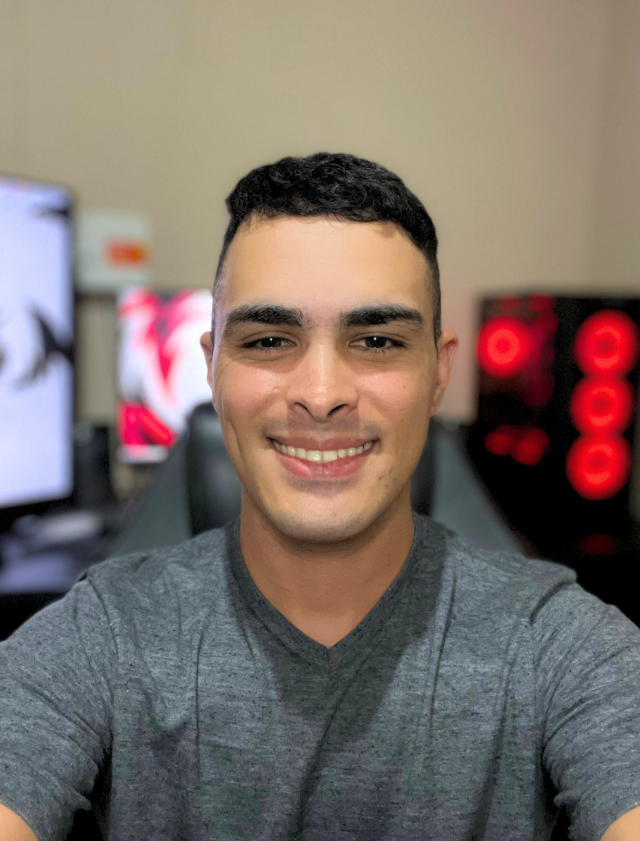
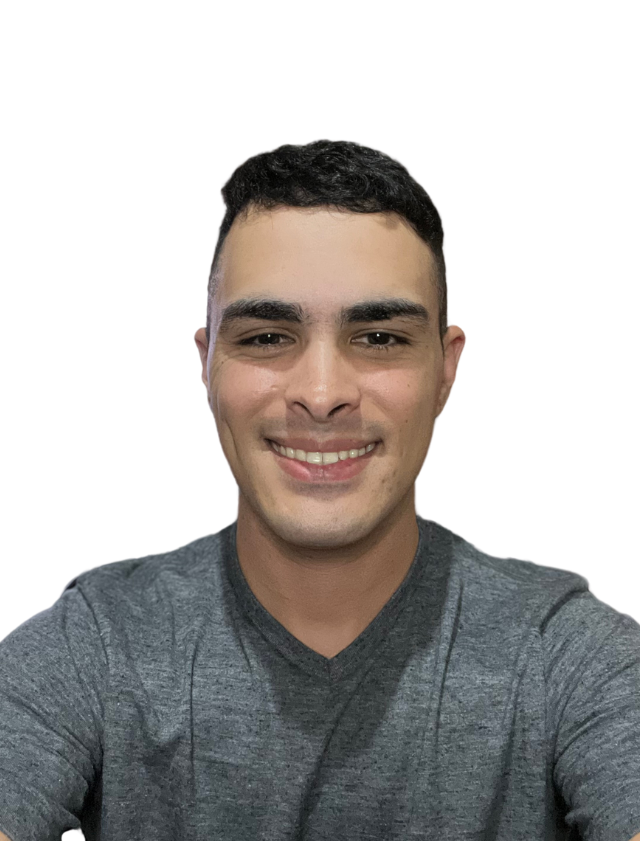
novos arquivos

diff --git a/assets/css/style.css b/assets/css/style.css
@@ -334,20 +334,20 @@ body.white {
     display: flex;
     justify-content: center;
     position: relative;
-    background: url(../images/about.jpg);
+    background: url(../images/perfil.png);
     -webkit-background-size: cover;
     background-color: var(--first-color);
-    border: solid 1px var(--second-color);
+    border: solid 1.5px var(--third-color);
     background-size: cover;
     background-position: center center;
     height: 400px;
     width: 450px;
     box-shadow: 4px 10px 5px 6px rgb(0,0,0,0.2);
-    animation: animate 8s ease-in-out infinite;
-    transition: all 1s ease-in-out;
+    animation: animate 5s ease-in-out infinite;
+    transition: all 0.3s ease-in-out;
 }
 .box:hover {
-    border: solid 1px var(--first-color);
+    border: solid 1.5px var(--second-color);
 }
 @keyframes animate{
     0%{
@@ -523,6 +523,7 @@ body.white {
 .contact__button:hover {
     box-shadow: rgba(17, 17, 26, 0.3) 0px 8px 24px, rgba(17, 17, 26, 0.3) 0px 16px 56px, rgba(17, 17, 26, 0.3) 0px 24px 80px;
     background-color: var(--second-color);
+    cursor: pointer;
 }
 
 /*=============== FOOTER ===============*/
@@ -538,6 +539,7 @@ body.white {
     color: #222222;
     font-size: 1.5rem;
     font-weight: 600;
+    cursor: default;
 }
 .footer__social {
     margin-bottom: 0.5rem;

diff --git a/assets/projetos/Card Slider Game FPS/assets/css/bio.css b/assets/projetos/Card Slider Game FPS/assets/css/bio.css
@@ -38,6 +38,8 @@ body{
 	height: 100%;
 	margin: 0 auto;
     padding: 0;
+    position: relative;
+    overflow: hidden;
 }
 .bioAgent-game{
     flex: 1 0 auto;
